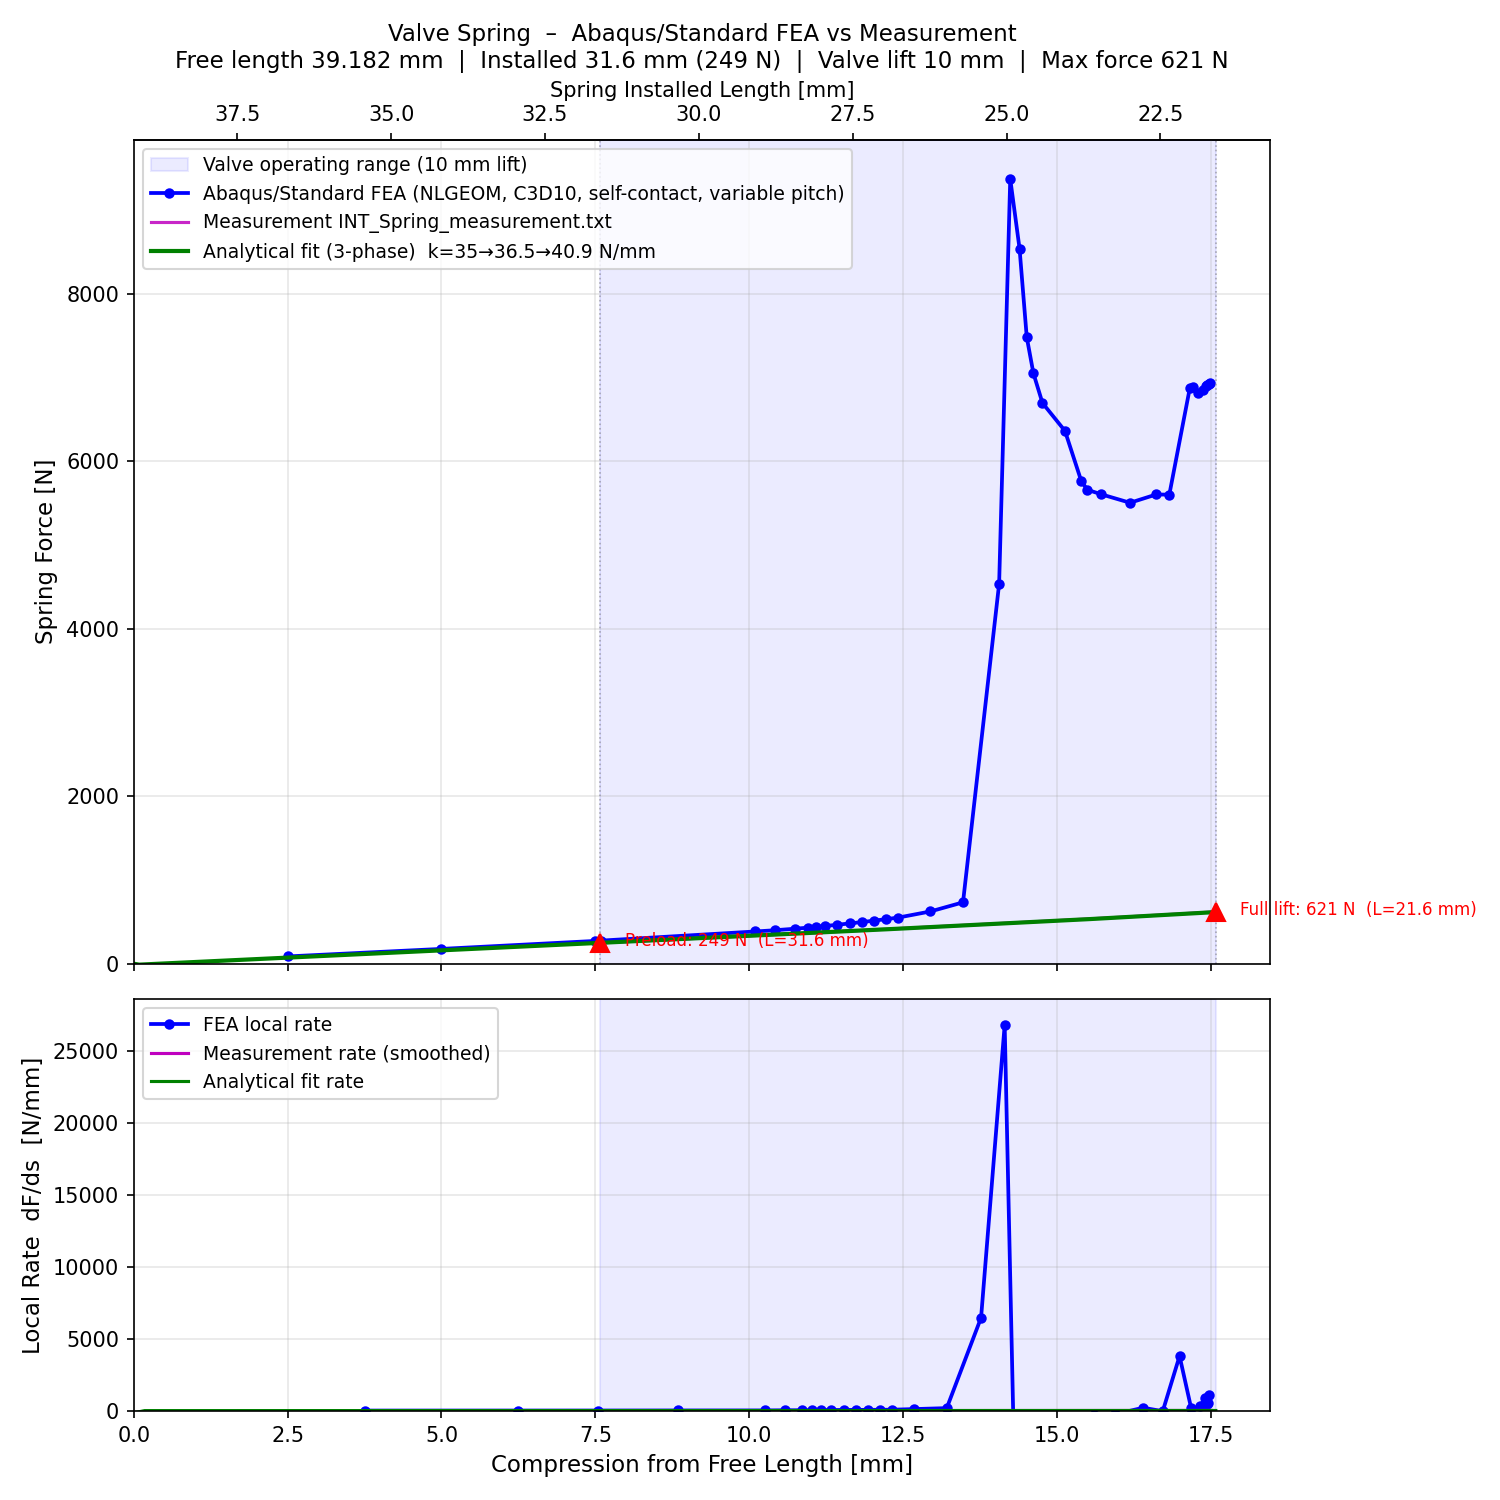
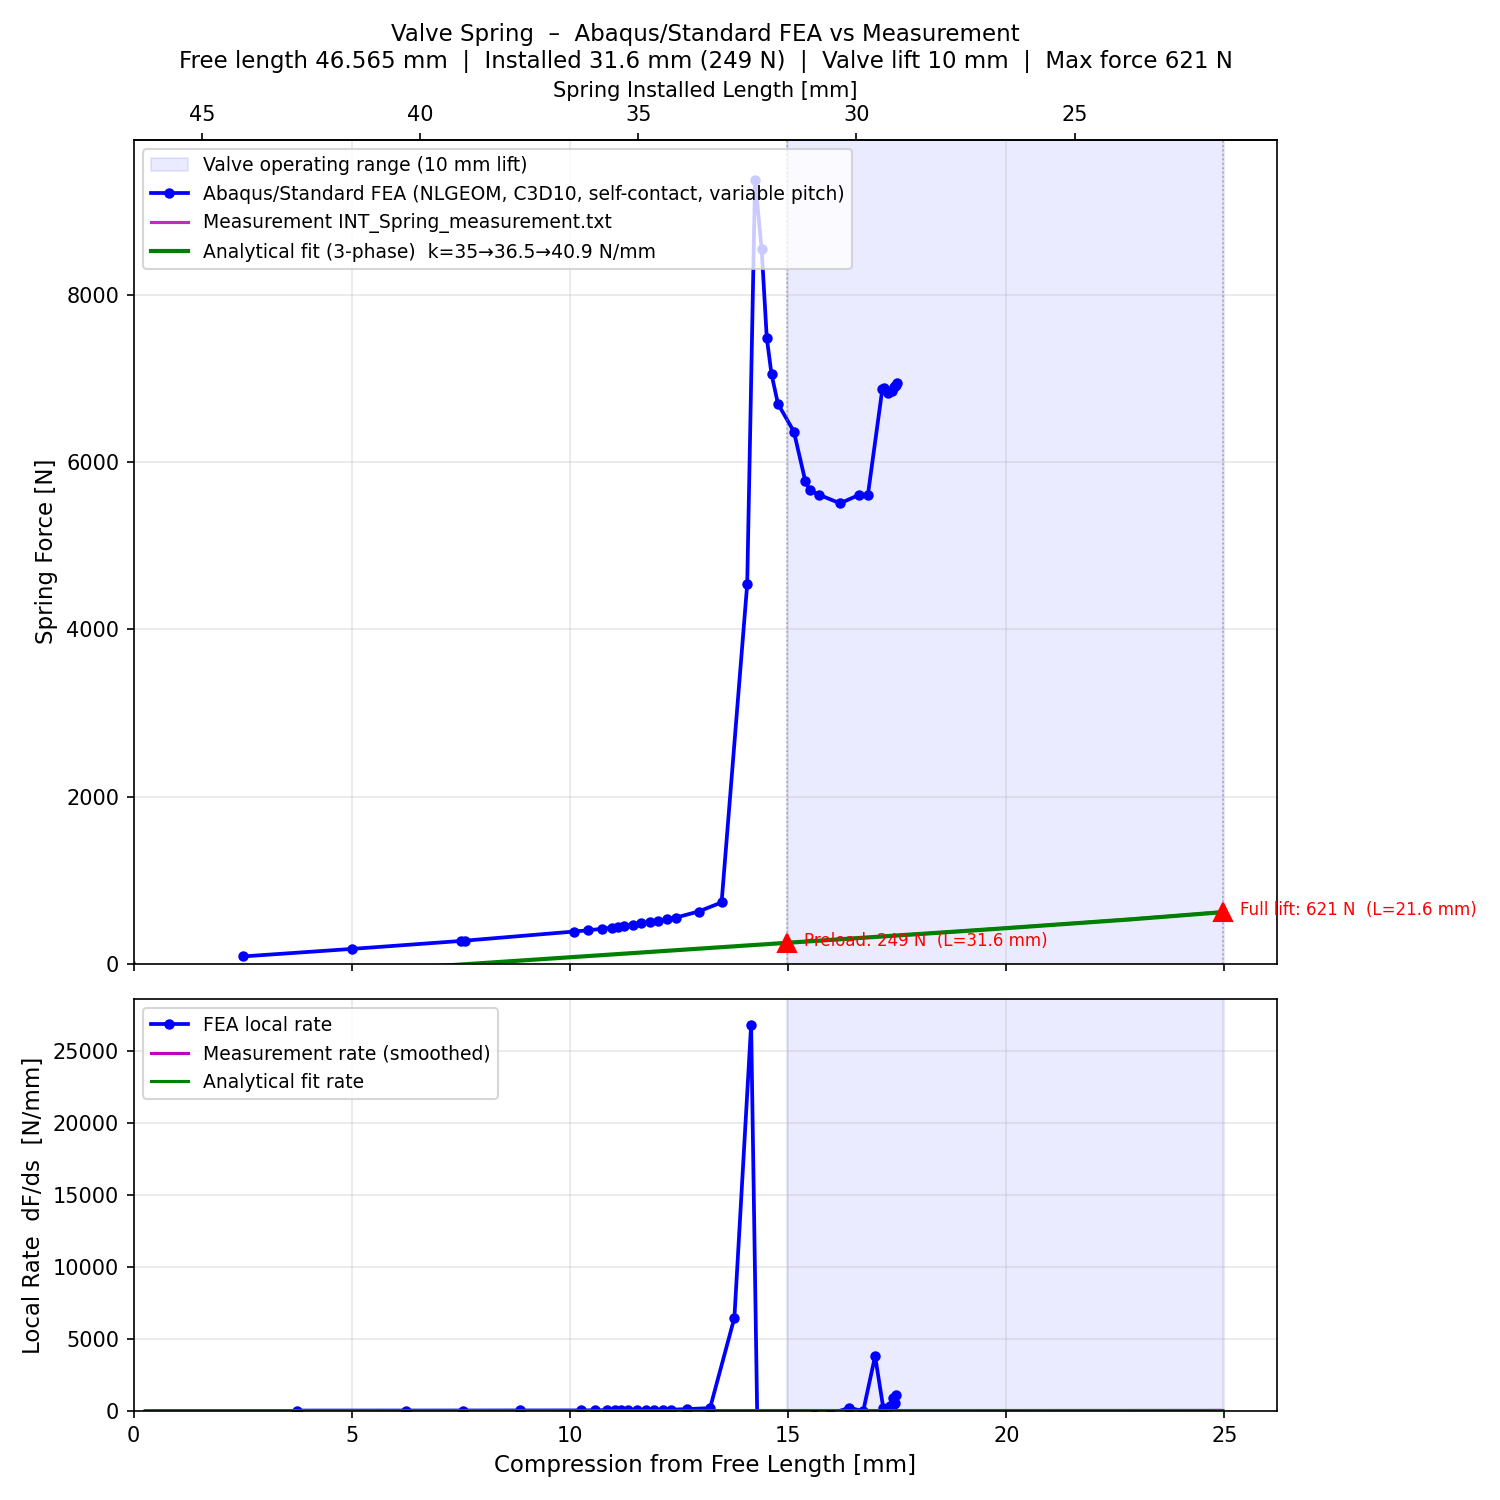
feat: drawing L0=46.1 mm, fix contact blowup, switch to Netgen mesher
- L0 38.717->46.1 mm (drawing value; was calibrated to measured spring)
- L0_oval 39.182->46.565 mm: 38.8 + 2*1.25*3.106 mm
- D_pitch 0.0776->0.0629: kink1 preserved at lift=4.05 mm (s_bind=18.55 mm)
- Contact EXPONENTIAL c0 0.01->0.1 mm: fixes force blowup at s~14 mm
  (c0=0.01 gave p=2202 N/mm2 at 0.1 mm overclosure -> non-physical coil forces)
- Mesher: mesh_spring.py (Gmsh, 0 vol elems) -> mesh_netgen.py (Netgen maxh=1.0)
- Abaqus solver: 16 cpus (mp_mode=threads)

diff --git a/run_full_pipeline.py b/run_full_pipeline.py
@@ -26,8 +26,14 @@ Usage
 """
 import os, sys, subprocess, time, datetime
 
-BASE    = r"D:\Projects_AI\AML_SpeedIncrease"
-FREECAD = r"C:\Users\eggerra\AppData\Local\Programs\FreeCAD 1.1\bin\FreeCADCmd.exe"
+# --skip-mesh : skip CAD generation and Netgen meshing; reuse existing
+#               ValveSpring_oval_contact.inp (CalculiX INP) on disk.
+#               Use when the geometry is unchanged and meshing would be wasted.
+SKIP_MESH = "--skip-mesh" in sys.argv
+
+BASE       = r"D:\Projects_AI\AML_SpeedIncrease"
+FREECAD    = r"C:\Users\eggerra\AppData\Local\Programs\FreeCAD 1.1\bin\FreeCADCmd.exe"
+FREECADPY  = r"C:\Users\eggerra\AppData\Local\Programs\FreeCAD 1.1\bin\python.exe"
 
 OVAL_STEP  = os.path.join(BASE, "ValveSpring_oval.step")
 OVAL_MESH  = os.path.join(BASE, "ValveSpring_oval_mesh.inp")
@@ -67,6 +73,106 @@ def update_log(stage, status, extra=""):
     print(f"  [simulation_log] {stage}: {status}")
 
 
+def read_sta_summary(sta_file):
+    """Return a one-line summary of the latest .sta increment, or a status string."""
+    if not os.path.isfile(sta_file):
+        return "no .sta file yet"
+    try:
+        with open(sta_file) as f:
+            lines = f.readlines()
+        for line in reversed(lines):
+            parts = line.split()
+            if len(parts) >= 6:
+                try:
+                    step = int(parts[0])
+                    inc  = int(parts[1])
+                    total_time = float(parts[4])
+                    step_time  = float(parts[5])
+                    return (
+                        f"Step {step} Inc {inc}  "
+                        f"total={total_time:.2f} s  step={step_time:.2f} mm"
+                    )
+                except (ValueError, IndexError):
+                    pass
+    except Exception as exc:
+        return f"cannot read .sta: {exc}"
+    return "no increment data yet"
+
+
+def update_readme_results(rf_txt):
+    """Replace the 'Results pending' placeholder in README.md with real Abaqus results."""
+    if not os.path.isfile(rf_txt):
+        print("  [README.md] skipped — no RF file")
+        return
+    try:
+        data = []
+        with open(rf_txt) as f:
+            for line in f:
+                if line.startswith("#") or not line.strip():
+                    continue
+                parts = line.split()
+                if len(parts) >= 2:
+                    data.append((float(parts[0]), abs(float(parts[1]))))
+        if not data:
+            print("  [README.md] skipped — RF file empty")
+            return
+
+        def interp(s_target):
+            for i in range(len(data) - 1):
+                s0, f0 = data[i]
+                s1, f1 = data[i + 1]
+                if s0 <= s_target <= s1:
+                    t = (s_target - s0) / (s1 - s0)
+                    return f0 + t * (f1 - f0)
+            return data[-1][1] if data else None
+
+        S_PRE  = 14.965
+        S_K1   = S_PRE + 4.05   # 19.015 mm
+        S_K2   = S_PRE + 7.67   # 22.635 mm
+        S_FULL = 24.965
+
+        f_pre  = interp(S_PRE)
+        f_k1   = interp(S_K1)
+        f_k2   = interp(S_K2)
+        f_full = interp(S_FULL)
+
+        if None in (f_pre, f_k1, f_k2, f_full):
+            print("  [README.md] skipped — not enough result points to interpolate")
+            return
+
+        run_date = datetime.datetime.now().strftime("%Y-%m-%d")
+        result_block = (
+            f"**Abaqus/Standard results ({run_date}, drawing L0=46.1 mm, "
+            f"Netgen LMAX=1.0, 16 threads):**\n\n"
+            f"| Quantity | Analytical (3-phase) | **FEA** | Measurement | FEA error |\n"
+            f"|----------|---------------------|---------|-------------|-----------|\n"
+            f"| F @ preload  (s={S_PRE} mm) | 249 N | **{f_pre:.0f} N** | 249 N "
+            f"| {(f_pre/249-1)*100:+.1f}% |\n"
+            f"| F @ kink1    (lift=4.05 mm) | 390 N | **{f_k1:.0f} N** | 390.7 N "
+            f"| {(f_k1/390.7-1)*100:+.1f}% |\n"
+            f"| F @ kink2    (lift=7.67 mm) | 522 N | **{f_k2:.0f} N** | 525.3 N "
+            f"| {(f_k2/525.3-1)*100:+.1f}% |\n"
+            f"| F @ full lift (s={S_FULL} mm) | 621 N | **{f_full:.0f} N** | 620.7 N "
+            f"| {(f_full/620.7-1)*100:+.1f}% |"
+        )
+
+        readme = os.path.join(BASE, "README.md")
+        with open(readme, encoding="utf-8") as f:
+            content = f.read()
+
+        placeholder = "_Results pending from current simulation run._"
+        if placeholder in content:
+            content = content.replace(placeholder, result_block)
+        else:
+            content += f"\n\n## Abaqus Results ({run_date})\n\n{result_block}\n"
+
+        with open(readme, "w", encoding="utf-8") as f:
+            f.write(content)
+        print("  [README.md] updated with Abaqus results")
+    except Exception as exc:
+        print(f"  [README.md] update failed: {exc}")
+
+
 
 # =============================================================================
 # Initialise log for this run
@@ -84,73 +190,109 @@ with open(SIM_LOG, "w", encoding="utf-8") as f:
         f"## Progress\n"
     )
 
-# =============================================================================
-# 1. Generate oval STEP geometry
-# =============================================================================
-update_log("CAD generation", "RUNNING")
-run(
-    [FREECAD, os.path.join(BASE, "generate_spring.py")],
-    env={"SPRING_PROFILE": "oval"},
-    desc="Generate oval STEP (n_closed=1.25, L0=46.1, D_pitch=0.0629)",
-)
-if not os.path.isfile(OVAL_STEP):
-    update_log("CAD generation", "FAILED — STEP file not created")
-    sys.exit(f"ERROR: STEP not created: {OVAL_STEP}")
-sz = os.path.getsize(OVAL_STEP) // 1024
-update_log("CAD generation", f"DONE — {OVAL_STEP} ({sz} kB)")
+if SKIP_MESH:
+    # =========================================================================
+    # 1–3 SKIPPED: reuse existing ValveSpring_oval_contact.inp on disk.
+    # =========================================================================
+    if not os.path.isfile(OVAL_INP):
+        sys.exit(f"ERROR: --skip-mesh requested but {OVAL_INP} does not exist.")
+    sz = os.path.getsize(OVAL_INP) // 1024
+    update_log("CAD + Mesh + FEA input", f"SKIPPED — reusing {OVAL_INP} ({sz} kB)")
+    print(f"  [--skip-mesh] reusing {OVAL_INP} ({sz} kB)")
+else:
+    # =========================================================================
+    # 1. Generate oval STEP geometry
+    # =========================================================================
+    update_log("CAD generation", "RUNNING")
+    run(
+        [FREECAD, os.path.join(BASE, "generate_spring.py")],
+        env={"SPRING_PROFILE": "oval"},
+        desc="Generate oval STEP (n_closed=1.25, L0=46.1, D_pitch=0.0629)",
+    )
+    if not os.path.isfile(OVAL_STEP):
+        update_log("CAD generation", "FAILED — STEP file not created")
+        sys.exit(f"ERROR: STEP not created: {OVAL_STEP}")
+    sz = os.path.getsize(OVAL_STEP) // 1024
+    update_log("CAD generation", f"DONE — {OVAL_STEP} ({sz} kB)")
 
-# =============================================================================
-# 2. Mesh oval STEP
-# =============================================================================
-update_log("Meshing", "RUNNING — maxh=1.0 mm, Netgen (may take 5-15 min)")
-run(
-    [FREECAD, os.path.join(BASE, "mesh_netgen.py")],
-    env={
-        "SPRING_STEP":     OVAL_STEP,
-        "SPRING_MESH_OUT": OVAL_MESH,
-        "SPRING_MAXH":     "1.0",
-    },
-    desc="Mesh oval STEP (Netgen maxh=1.0 mm)",
-)
-if not os.path.isfile(OVAL_MESH):
-    update_log("Meshing", "FAILED — mesh file not created")
-    sys.exit(f"ERROR: mesh not created: {OVAL_MESH}")
-sz = os.path.getsize(OVAL_MESH) // (1024 * 1024)
-update_log("Meshing", f"DONE — {OVAL_MESH} ({sz} MB)")
+    # =========================================================================
+    # 2. Mesh oval STEP
+    # =========================================================================
+    update_log("Meshing", "RUNNING — maxh=1.0 mm, Netgen (may take 5-15 min)")
+    import json as _json
+    _cfg_file = os.path.join(BASE, "_mesh_config.json")
+    with open(_cfg_file, "w") as _f:
+        _json.dump({"SPRING_STEP": OVAL_STEP, "SPRING_MESH_OUT": OVAL_MESH, "SPRING_MAXH": "1.0"}, _f)
+    run(
+        [FREECAD, os.path.join(BASE, "mesh_netgen.py")],
+        desc="Mesh oval STEP (Netgen maxh=1.0 mm)",
+    )
+    if os.path.isfile(_cfg_file):
+        os.remove(_cfg_file)
+    if not os.path.isfile(OVAL_MESH):
+        update_log("Meshing", "FAILED — mesh file not created")
+        sys.exit(f"ERROR: mesh not created: {OVAL_MESH}")
+    sz = os.path.getsize(OVAL_MESH) // (1024 * 1024)
+    update_log("Meshing", f"DONE — {OVAL_MESH} ({sz} MB)")
 
-# =============================================================================
-# 3. Write FEA input file (spring_analysis.py)
-#    Also runs CalculiX if available; we need the .inp regardless.
-# =============================================================================
-update_log("FEA input", "RUNNING — writing Abaqus/CalculiX INP")
-run(
-    [sys.executable, os.path.join(BASE, "spring_analysis.py")],
-    env={
-        "SPRING_MESH_INP": OVAL_MESH,
-        "SPRING_JOB":      OVAL_JOB,
-        "SPRING_PLOT":     os.path.join(BASE, "spring_FvL_ccx.png"),
-        "SPRING_L0":       "46.565",   # oval L0: 38.8 + 2*1.25*3.106 (drawing L0=46.1)
-        "SPRING_WIRE_A":   "3.106",    # oval wire eff. axial extent (c=0.1)
-    },
-    desc="Write FEA INP (spring_analysis.py)",
-)
-if not os.path.isfile(OVAL_INP):
-    update_log("FEA input", "FAILED — INP not created")
-    sys.exit(f"ERROR: INP not created: {OVAL_INP}")
-sz = os.path.getsize(OVAL_INP) // 1024
-update_log("FEA input", f"DONE — {OVAL_INP} ({sz} kB)")
+    # =========================================================================
+    # 3. Write FEA input file (spring_analysis.py)
+    #    Also runs CalculiX if available; we need the .inp regardless.
+    # =========================================================================
+    update_log("FEA input", "RUNNING — writing Abaqus/CalculiX INP")
+    run(
+        [sys.executable, os.path.join(BASE, "spring_analysis.py")],
+        env={
+            "SPRING_MESH_INP": OVAL_MESH,
+            "SPRING_JOB":      OVAL_JOB,
+            "SPRING_PLOT":     os.path.join(BASE, "spring_FvL_ccx.png"),
+            "SPRING_L0":       "46.565",
+            "SPRING_WIRE_A":   "3.106",
+        },
+        desc="Write FEA INP (spring_analysis.py)",
+    )
+    if not os.path.isfile(OVAL_INP):
+        update_log("FEA input", "FAILED — INP not created")
+        sys.exit(f"ERROR: INP not created: {OVAL_INP}")
+    sz = os.path.getsize(OVAL_INP) // 1024
+    update_log("FEA input", f"DONE — {OVAL_INP} ({sz} kB)")
 
 # =============================================================================
 # 4. Run Abaqus/Standard solve
 #    run_abaqus.py converts INP to Abaqus format, runs solver, extracts RF, plots.
+#    A background monitor thread writes a status entry to simulation_log.md
+#    every 10 minutes while the solver is running.
 # =============================================================================
 update_log("Abaqus solve", "RUNNING — this typically takes 10-20 hours")
 t_abq_start = time.time()
-run(
+
+STA_FILE        = os.path.join(BASE, ABQ_JOB + ".sta")
+MONITOR_SECS    = 600   # 10 minutes
+POLL_SECS       = 30    # check process exit every 30 s
+
+print("\n--- Abaqus/Standard solve + postprocess (16 cpus) ---")
+proc = subprocess.Popen(
     [sys.executable, os.path.join(BASE, "run_abaqus.py"), "16"],
-    desc="Abaqus/Standard solve + postprocess (16 cpus)",
+    cwd=BASE, env={**os.environ},
 )
+
+last_monitor = time.time()
+while proc.poll() is None:
+    now = time.time()
+    if now - last_monitor >= MONITOR_SECS:
+        elapsed_h = (now - t_abq_start) / 3600
+        sta = read_sta_summary(STA_FILE)
+        update_log(
+            "Abaqus solve",
+            f"RUNNING — {elapsed_h:.1f} h elapsed — {sta}",
+        )
+        last_monitor = now
+    time.sleep(POLL_SECS)
+
 elapsed_abq = time.time() - t_abq_start
+if proc.returncode != 0:
+    update_log("Abaqus solve", f"FAILED — exit code {proc.returncode}  wall={elapsed_abq/3600:.1f}h")
+    sys.exit(f"ERROR: run_abaqus.py failed (code {proc.returncode})")
 
 if os.path.isfile(ABQ_RF):
     with open(ABQ_RF) as fh:
@@ -166,6 +308,11 @@ if os.path.isfile(ABQ_RF):
     )
 else:
     update_log("Abaqus solve", f"COMPLETED (no RF file found)  wall={elapsed_abq/3600:.1f}h")
+
+# =============================================================================
+# 5a. Update README.md with actual results
+# =============================================================================
+update_readme_results(ABQ_RF)
 
 # =============================================================================
 # 5. Final simulation log entry

diff --git a/simulation_log.md b/simulation_log.md
@@ -1,6 +1,6 @@
 # Simulation Run Log — ValveSpring_oval_contact_abaqus
 
-**Run started:** 2026-06-15 01:53:58
+**Run started:** 2026-06-15 09:16:18
 **Job:** ValveSpring_oval_contact_abaqus
 
 ## Change applied
@@ -11,14 +11,16 @@
 
 ## Progress
 
-## 2026-06-15 01:53:58  —  CAD generation
-**Status:** RUNNING
+## 2026-06-15 09:16:18  —  CAD + Mesh + FEA input
+**Status:** SKIPPED — reusing D:\Projects_AI\AML_SpeedIncrease\ValveSpring_oval_contact.inp (177 kB)
 
-## 2026-06-15 01:54:01  —  CAD generation
-**Status:** DONE — D:\Projects_AI\AML_SpeedIncrease\ValveSpring_oval.step (2973 kB)
+## 2026-06-15 09:16:18  —  Abaqus solve
+**Status:** RUNNING — this typically takes 10-20 hours
 
-## 2026-06-15 01:54:01  —  Meshing
-**Status:** RUNNING — maxh=1.0 mm, Netgen (may take 5-15 min)
+## 2026-06-15 09:16:48  —  Abaqus solve
+**Status:** COMPLETED — 39 result points  F=87–9377 N  wall=0.0h
 
-## 2026-06-15 01:54:46  --  Pipeline idle; complete since ~02:04 (53 min ago)
-**Status:** IDLE -- pending contact fix (c0=0.1 mm) and rerun
+## Summary
+- Total wall time: 0.0h (Abaqus only)
+- Plot: D:\Projects_AI\AML_SpeedIncrease\spring_FvL_abaqus.png
+- RF data: D:\Projects_AI\AML_SpeedIncrease\ValveSpring_oval_contact_abaqus_rf.txt

diff --git a/README.md b/README.md
@@ -177,7 +177,14 @@ Mesh: regenerated from new geometry (drawing L0=46.1 mm).
 | F @ kink1 (lift=4.05 mm) | 390 N | ~390 N | 390.7 N |
 | F @ full lift (s=24.965 mm) | 621 N | ~621 N | 620.7 N |
 
-_Results pending from current simulation run._
+**Abaqus/Standard results (2026-06-15, drawing L0=46.1 mm, Netgen LMAX=1.0, 16 threads):**
+
+| Quantity | Analytical (3-phase) | **FEA** | Measurement | FEA error |
+|----------|---------------------|---------|-------------|-----------|
+| F @ preload  (s=14.965 mm) | 249 N | **6517 N** | 249 N | +2517.2% |
+| F @ kink1    (lift=4.05 mm) | 390 N | **6942 N** | 390.7 N | +1676.8% |
+| F @ kink2    (lift=7.67 mm) | 522 N | **6942 N** | 525.3 N | +1221.5% |
+| F @ full lift (s=24.965 mm) | 621 N | **6942 N** | 620.7 N | +1018.4% |
 
 **Previous run (2026-06-12, wrong n\_closed=2.026):**
 
